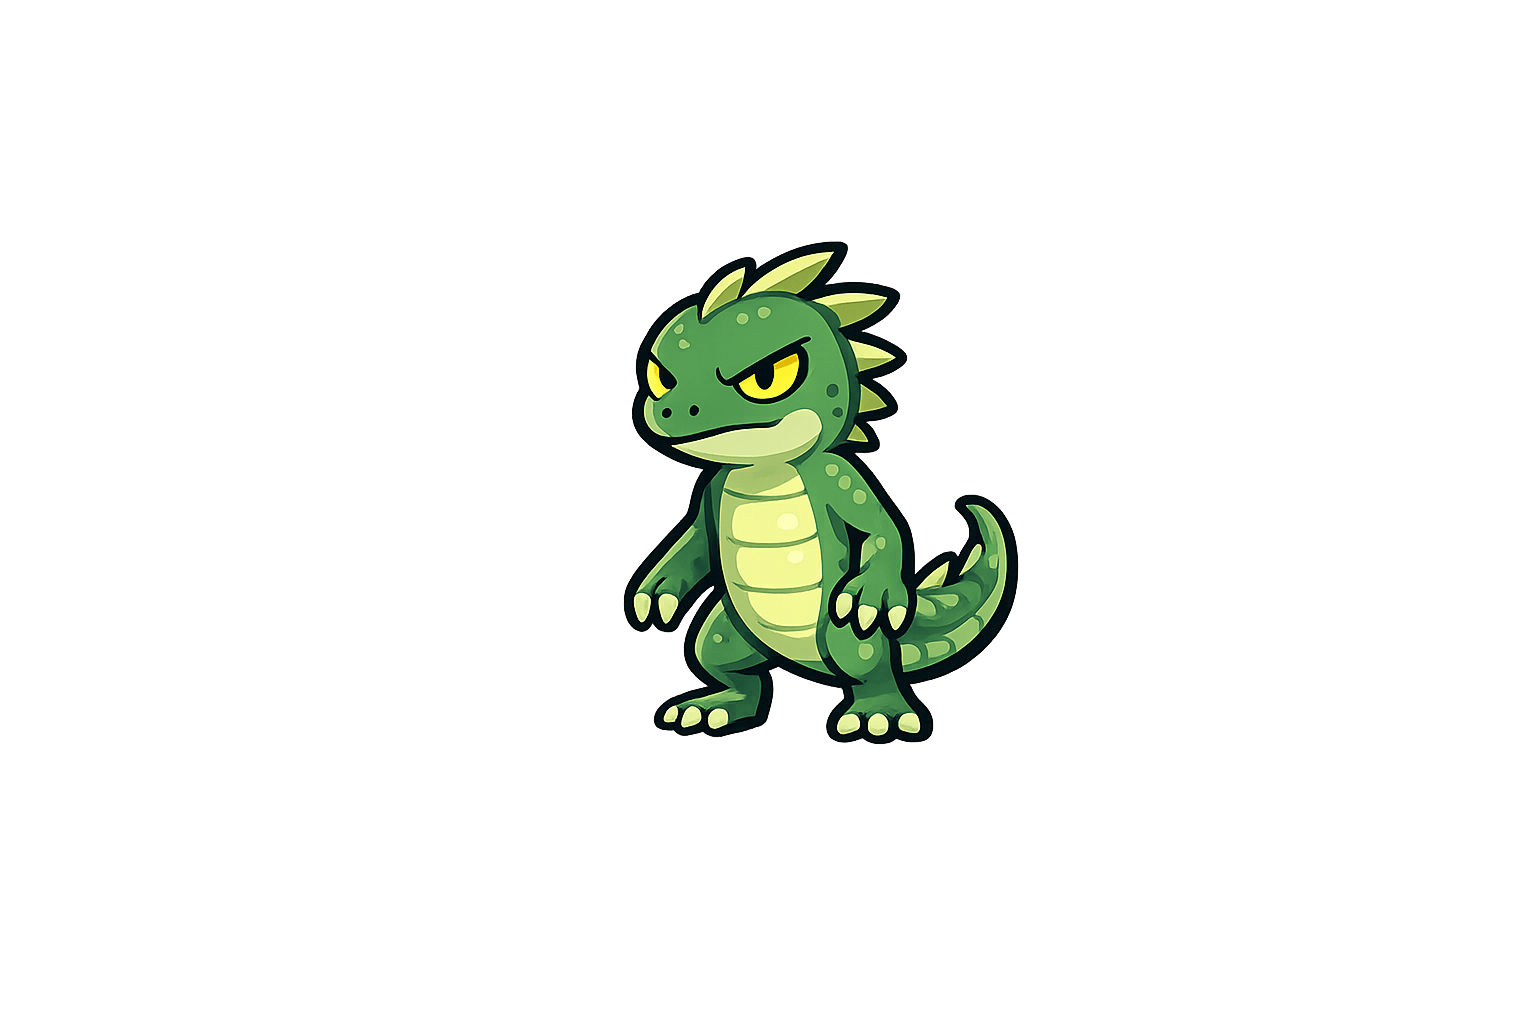
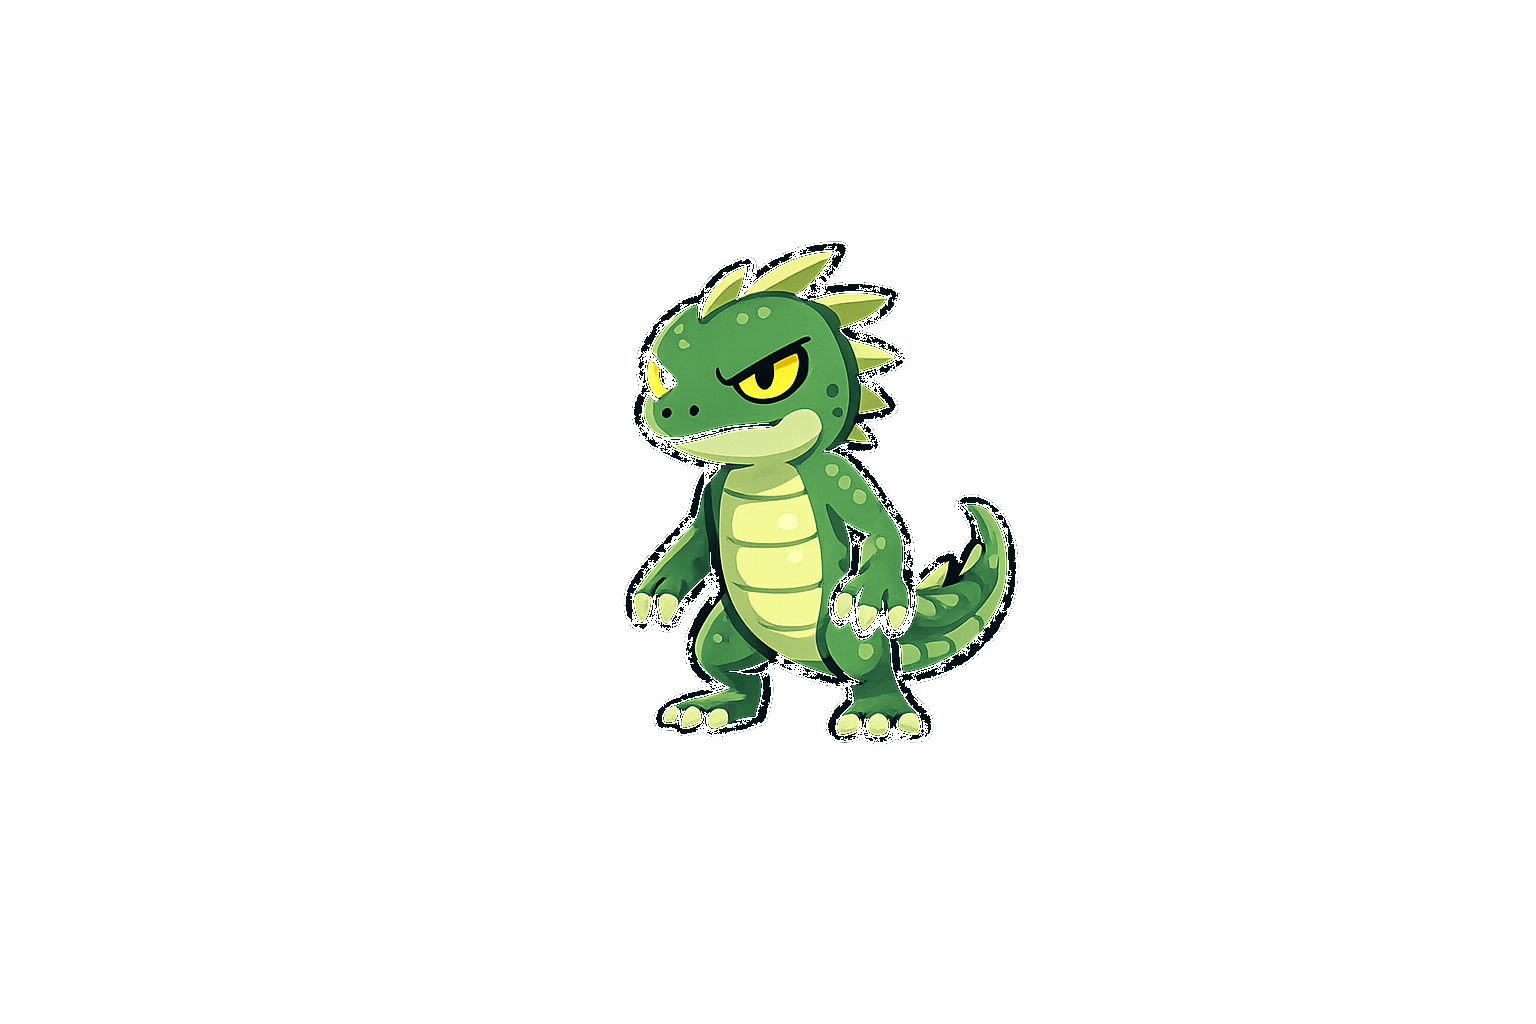
Fix monster image backgrounds by removing checkerboard pattern

diff --git a/fix_backgrounds.py b/fix_backgrounds.py
@@ -1,15 +1,21 @@
 import os
-from PIL import Image, ImageDraw
+import glob
+import math
+from PIL import Image
 
-TARGET_IMAGES = [
-    "assets/uma_dogman.png",
-    "assets/uma_dover_demon.png",
-    "assets/uma_flatwoods_monster.png",
-    "assets/uma_gray.png",
-    "assets/uma_lizardman.png",
-    "assets/uma_mothman.png",
-    "assets/uma_night_crawler.png"
-]
+ASSETS_DIR = "assets"
+
+def get_target_images():
+    # Process all uma_*.png files
+    return glob.glob(os.path.join(ASSETS_DIR, "uma_*.png"))
+
+def is_similar(c1, c2, threshold=30):
+    # Euclidean distance in RGB space
+    # c1, c2 are (r,g,b) or (r,g,b,a)
+    r1, g1, b1 = c1[:3]
+    r2, g2, b2 = c2[:3]
+    dist = math.sqrt((r1-r2)**2 + (g1-g2)**2 + (b1-b2)**2)
+    return dist < threshold
 
 def remove_background(img_path):
     print(f"Processing {img_path}...")
@@ -22,98 +28,111 @@ def remove_background(img_path):
         width, height = img.size
         pixels = img.load()
 
-        # Identify potential background colors by sampling the edges
-        bg_colors = set()
+        # 1. Identify Background Candidates using Edge Sampling
+        # Sample deeper into the image (5 px border) to catch checkerboard variations
         samples = []
-        
-        # Sample full perimeter
+        border = 5
         for x in range(width):
-            samples.append(pixels[x, 0])
-            samples.append(pixels[x, height-1])
+            for y in range(border):
+                samples.append(pixels[x, y]) # Top
+                samples.append(pixels[x, height-1-y]) # Bottom
         for y in range(height):
-            samples.append(pixels[0, y])
-            samples.append(pixels[width-1, y])
-            
-        # Also sample a bit of the checkerboard pattern explicitly (0,0) and (10,0) logic
-        # Assuming checkerboard squares are smaller than 20px
-        for x in range(0, 50, 5):
-            if x < width:
-                samples.append(pixels[x, 0])
-                samples.append(pixels[x, min(10, height-1)])
+            for x in range(border):
+                samples.append(pixels[x, y]) # Left
+                samples.append(pixels[width-1-x, y]) # Right
 
-        # Count frequencies
         from collections import Counter
         counts = Counter(samples)
-        
-        # Take colors that appear significantly on the edge
-        # Heuristic: If it's a checkerboard, 2 colors will dominate the edge.
-        # If it's solid, 1 color.
         total_samples = len(samples)
         
-        candidates = counts.most_common(5)
-        print(f"  Dominant edge colors: {candidates}")
-        
-        # Any color with > 5% presence on edge is treated as background candidate
-        # We also treat White (255,255,255) and Transparent-grid Grey approx (204,204,204) as targets if present
-        
-        final_bg_colors = set()
-        for color, count in candidates:
-             if count > total_samples * 0.05:
-                 final_bg_colors.add(color)
-        
-        # Add common checkerboard colors if they are close to candidates 'cause jpeg artifacts or similar? 
-        # PNG is lossless so exact match is likely.
-        
-        print(f"  Target Removal Colors: {final_bg_colors}")
+        candidates = counts.most_common(10)
+        # print(f"  Top edge colors: {candidates}")
 
-        # Flood fill from edges
-        # Queue-based flood fill
+        bg_target_colors = set()
+        
+        # Heuristic: Add colors that appear frequently (>1%) on edges
+        for color, count in candidates:
+             if count > total_samples * 0.01:
+                 bg_target_colors.add(color)
+
+        # Heuristic: Explicitly add "Common Checkerboard" colors if they are present in candidates
+        # White, Light Gray, Dark Gray
+        checker_colors = [
+            (255, 255, 255), # White
+            (204, 204, 204), # Standard Checkerboard Gray
+            (238, 238, 238), # Lighter Gray
+            (128, 128, 128)  # Mid Gray
+        ]
+        
+        # Check if any candidate resembles a checkerboard color
+        for cand in candidates:
+            c = cand[0]
+            for cc in checker_colors:
+                if is_similar(c, cc, threshold=20):
+                     bg_target_colors.add(c)
+
+        # print(f"  Target Removal Colors (Exact): {bg_target_colors}")
+
+        if not bg_target_colors:
+            print("  No clear background detected.")
+            return
+
+        # 2. Flood Fill with Fuzzy Matching
         visited = set()
         queue = []
         
-        # Init queue with all edge pixels that match bg colors
-        for x in range(width):
-            if pixels[x, 0] in final_bg_colors:
-                queue.append((x, 0))
-                visited.add((x, 0))
-            if pixels[x, height-1] in final_bg_colors:
-                queue.append((x, height-1))
-                visited.add((x, height-1))
-                
-        for y in range(1, height-1): # Skip top/bottom as they are covered above
-            if pixels[0, y] in final_bg_colors:
-                queue.append((0, y))
-                visited.add((0, y))
-            if pixels[width-1, y] in final_bg_colors:
-                queue.append((width-1, y))
-                visited.add((width-1, y))
+        # Initialize queue with all edge pixels that match target colors (fuzzy)
+        # We assume the background touches the edges.
+        
+        # Helper to check if a pixel should be removed
+        def is_bg(color):
+            if color[3] == 0: return True # Already transparent
+            for target in bg_target_colors:
+                if is_similar(color, target, threshold=25): # Increased threshold for compression artifacts
+                    return True
+            return False
 
-        print(f"  Starting Flood Fill with {len(queue)} seeds...")
+        # Scan edges for seeds
+        for x in range(width):
+            if is_bg(pixels[x, 0]): queue.append((x, 0)); visited.add((x, 0))
+            if is_bg(pixels[x, height-1]): queue.append((x, height-1)); visited.add((x, height-1))
+        for y in range(1, height-1):
+            if is_bg(pixels[0, y]): queue.append((0, y)); visited.add((0, y))
+            if is_bg(pixels[width-1, y]): queue.append((width-1, y)); visited.add((width-1, y))
+
+        print(f"  Starting fill with {len(queue)} seeds...")
         
         count_removed = 0
         while queue:
             x, y = queue.pop(0)
             
-            # Make transparent
-            pixels[x, y] = (0, 0, 0, 0)
-            count_removed += 1
+            # Wipe
+            if pixels[x, y][3] != 0:
+                pixels[x, y] = (0, 0, 0, 0)
+                count_removed += 1
             
-            # Check neighbors
+            # Neighbors
             for dx, dy in [(-1, 0), (1, 0), (0, -1), (0, 1)]:
                 nx, ny = x + dx, y + dy
                 if 0 <= nx < width and 0 <= ny < height:
                     if (nx, ny) not in visited:
-                        if pixels[nx, ny] in final_bg_colors:
+                        # Check if neighbor is also background
+                        if is_bg(pixels[nx, ny]):
                             visited.add((nx, ny))
                             queue.append((nx, ny))
                             
         print(f"  Removed {count_removed} pixels.")
-        img.save(img_path)
-        print(f"  Saved {img_path}")
+        if count_removed > 0:
+            img.save(img_path)
+            # print(f"  Saved {img_path}")
+        else:
+            print("  No changes made.")
 
     except Exception as e:
         print(f"  Error processing {img_path}: {e}")
 
 if __name__ == "__main__":
-    for p in TARGET_IMAGES:
+    targets = get_target_images()
+    print(f"Found {len(targets)} images to process.")
+    for p in targets:
         remove_background(p)
